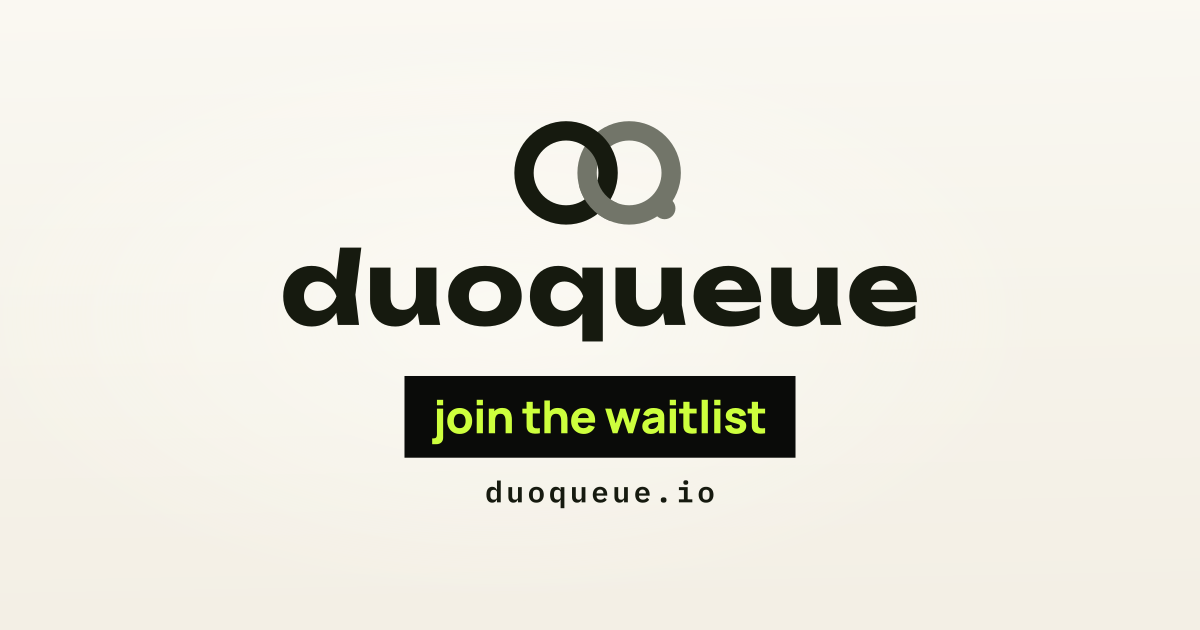
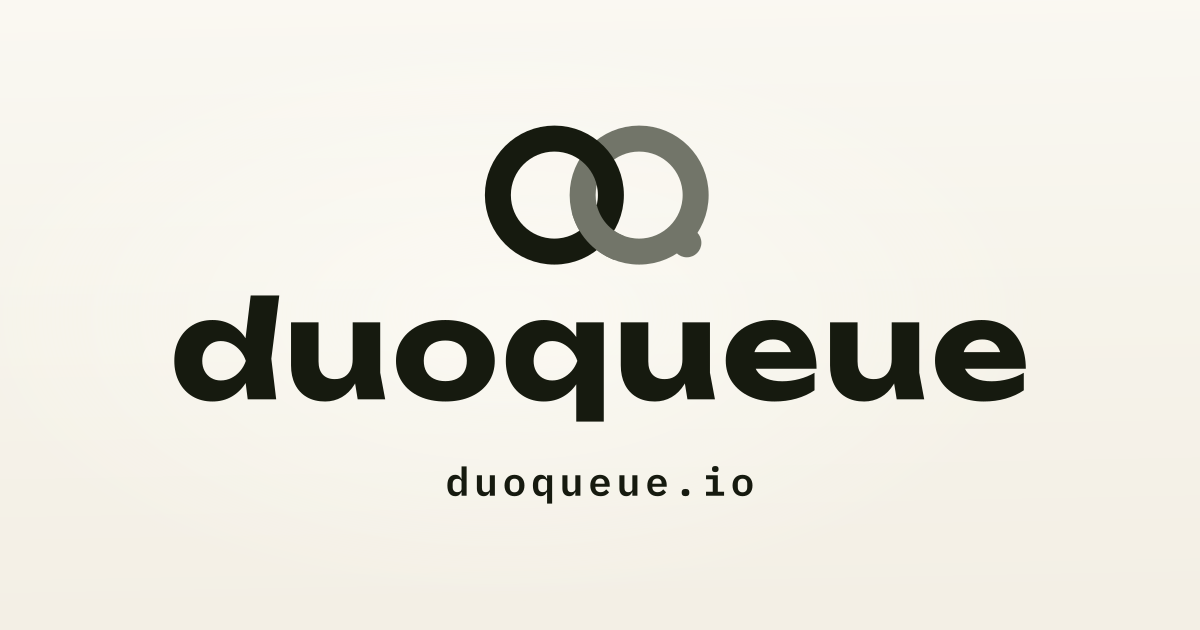
Site: the link preview card drops "join the waitlist" now DuoQueue is out
Every page's og:image pointed at og.png, whose slab still read "join the
waitlist", so any duoqueue.io link shared on Discord, iMessage or a bio
would have advertised a list that no longer exists.

make-og.mjs now follows PHASE: the launched card is the mark, the
wordmark and duoqueue.io, no slab, set larger (wordmark 860 wide) so the
stack keeps the waitlist card's margins. New words for the slab would
need fontTools from pip, so the slab goes rather than guessing.

The card has a new name, og-launch.png (OG_CARD in build-site.mjs),
because Discord's proxy and Facebook's scraper cache a preview image by
its URL. og.png is rewritten with the same launch card, since the deploy
never deletes from gh-pages and previews cached before the rename still
ask for it. The waitlist path renders byte-identical to the old og.png.

The name is also the guard: build-site.mjs warns and deploy-site.mjs
refuses (checked) when the current PHASE's card is missing, and the
deploy's live checks now prove both cards are served with the built
byte count.

Changed region(s): [[0.1233, 0.181, 0.8633, 0.8143]]

diff --git a/site/ig/index.html b/site/ig/index.html
@@ -14,7 +14,7 @@
 <meta property="og:site_name" content="DuoQueue">
 <meta property="og:title" content="DuoQueue: find your duo">
 <meta property="og:description" content="DuoQueue is an 18+ app for finding people to play games with. Platonic, not dating. Free to download on iPhone, starting with League of Legends players in North America.">
-<meta property="og:image" content="https://duoqueue.io/og.png">
+<meta property="og:image" content="https://duoqueue.io/og-launch.png">
 <meta property="og:image:width" content="1200">
 <meta property="og:image:height" content="630">
 <meta property="og:url" content="https://duoqueue.io/">

diff --git a/site/index.html b/site/index.html
@@ -14,7 +14,7 @@
 <meta property="og:site_name" content="DuoQueue">
 <meta property="og:title" content="DuoQueue: find your duo">
 <meta property="og:description" content="DuoQueue is an 18+ app for finding people to play games with. Platonic, not dating. Free to download on iPhone, starting with League of Legends players in North America.">
-<meta property="og:image" content="https://duoqueue.io/og.png">
+<meta property="og:image" content="https://duoqueue.io/og-launch.png">
 <meta property="og:image:width" content="1200">
 <meta property="og:image:height" content="630">
 <meta property="og:url" content="https://duoqueue.io/">

diff --git a/site/tt/index.html b/site/tt/index.html
@@ -14,7 +14,7 @@
 <meta property="og:site_name" content="DuoQueue">
 <meta property="og:title" content="DuoQueue: find your duo">
 <meta property="og:description" content="DuoQueue is an 18+ app for finding people to play games with. Platonic, not dating. Free to download on iPhone, starting with League of Legends players in North America.">
-<meta property="og:image" content="https://duoqueue.io/og.png">
+<meta property="og:image" content="https://duoqueue.io/og-launch.png">
 <meta property="og:image:width" content="1200">
 <meta property="og:image:height" content="630">
 <meta property="og:url" content="https://duoqueue.io/">

diff --git a/site/waitlist/index.html b/site/waitlist/index.html
@@ -14,7 +14,7 @@
 <meta property="og:site_name" content="DuoQueue">
 <meta property="og:title" content="DuoQueue: find your duo">
 <meta property="og:description" content="DuoQueue is an 18+ app for finding people to play games with. Platonic, not dating. Free to download on iPhone, starting with League of Legends players in North America.">
-<meta property="og:image" content="https://duoqueue.io/og.png">
+<meta property="og:image" content="https://duoqueue.io/og-launch.png">
 <meta property="og:image:width" content="1200">
 <meta property="og:image:height" content="630">
 <meta property="og:url" content="https://duoqueue.io/">

diff --git a/site/yt/index.html b/site/yt/index.html
@@ -14,7 +14,7 @@
 <meta property="og:site_name" content="DuoQueue">
 <meta property="og:title" content="DuoQueue: find your duo">
 <meta property="og:description" content="DuoQueue is an 18+ app for finding people to play games with. Platonic, not dating. Free to download on iPhone, starting with League of Legends players in North America.">
-<meta property="og:image" content="https://duoqueue.io/og.png">
+<meta property="og:image" content="https://duoqueue.io/og-launch.png">
 <meta property="og:image:width" content="1200">
 <meta property="og:image:height" content="630">
 <meta property="og:url" content="https://duoqueue.io/">

diff --git a/site/ig/watch/index.html b/site/ig/watch/index.html
@@ -14,7 +14,7 @@
 <meta property="og:site_name" content="DuoQueue">
 <meta property="og:title" content="Watch the trailer | DuoQueue">
 <meta property="og:description" content="The DuoQueue trailer: an 18+ app for finding people to play games with. Platonic, not dating. Free to download on iPhone.">
-<meta property="og:image" content="https://duoqueue.io/og.png">
+<meta property="og:image" content="https://duoqueue.io/og-launch.png">
 <meta property="og:image:width" content="1200">
 <meta property="og:image:height" content="630">
 <meta property="og:url" content="https://duoqueue.io/watch/">

diff --git a/site/tt/watch/index.html b/site/tt/watch/index.html
@@ -14,7 +14,7 @@
 <meta property="og:site_name" content="DuoQueue">
 <meta property="og:title" content="Watch the trailer | DuoQueue">
 <meta property="og:description" content="The DuoQueue trailer: an 18+ app for finding people to play games with. Platonic, not dating. Free to download on iPhone.">
-<meta property="og:image" content="https://duoqueue.io/og.png">
+<meta property="og:image" content="https://duoqueue.io/og-launch.png">
 <meta property="og:image:width" content="1200">
 <meta property="og:image:height" content="630">
 <meta property="og:url" content="https://duoqueue.io/watch/">

diff --git a/site/watch/index.html b/site/watch/index.html
@@ -14,7 +14,7 @@
 <meta property="og:site_name" content="DuoQueue">
 <meta property="og:title" content="Watch the trailer | DuoQueue">
 <meta property="og:description" content="The DuoQueue trailer: an 18+ app for finding people to play games with. Platonic, not dating. Free to download on iPhone.">
-<meta property="og:image" content="https://duoqueue.io/og.png">
+<meta property="og:image" content="https://duoqueue.io/og-launch.png">
 <meta property="og:image:width" content="1200">
 <meta property="og:image:height" content="630">
 <meta property="og:url" content="https://duoqueue.io/watch/">

diff --git a/site/yt/watch/index.html b/site/yt/watch/index.html
@@ -14,7 +14,7 @@
 <meta property="og:site_name" content="DuoQueue">
 <meta property="og:title" content="Watch the trailer | DuoQueue">
 <meta property="og:description" content="The DuoQueue trailer: an 18+ app for finding people to play games with. Platonic, not dating. Free to download on iPhone.">
-<meta property="og:image" content="https://duoqueue.io/og.png">
+<meta property="og:image" content="https://duoqueue.io/og-launch.png">
 <meta property="og:image:width" content="1200">
 <meta property="og:image:height" content="630">
 <meta property="og:url" content="https://duoqueue.io/watch/">

diff --git a/site/privacy/index.html b/site/privacy/index.html
@@ -14,7 +14,7 @@
 <meta property="og:site_name" content="DuoQueue">
 <meta property="og:title" content="DuoQueue Privacy Policy | DuoQueue">
 <meta property="og:description" content="DuoQueue's Privacy Policy: what we collect, why, and who we share it with.">
-<meta property="og:image" content="https://duoqueue.io/og.png">
+<meta property="og:image" content="https://duoqueue.io/og-launch.png">
 <meta property="og:image:width" content="1200">
 <meta property="og:image:height" content="630">
 <meta property="og:url" content="https://duoqueue.io/privacy/">

diff --git a/site/waitlist/thanks/index.html b/site/waitlist/thanks/index.html
@@ -14,7 +14,7 @@
 <meta property="og:site_name" content="DuoQueue">
 <meta property="og:title" content="DuoQueue is out now">
 <meta property="og:description" content="DuoQueue is out now, free to download on iPhone, so there is no waitlist to join any more. Download it on the App Store.">
-<meta property="og:image" content="https://duoqueue.io/og.png">
+<meta property="og:image" content="https://duoqueue.io/og-launch.png">
 <meta property="og:image:width" content="1200">
 <meta property="og:image:height" content="630">
 

diff --git a/site/waitlist/try-again/index.html b/site/waitlist/try-again/index.html
@@ -14,7 +14,7 @@
 <meta property="og:site_name" content="DuoQueue">
 <meta property="og:title" content="DuoQueue is out now">
 <meta property="og:description" content="DuoQueue is out now, free to download on iPhone, so there is no waitlist to join any more. Download it on the App Store.">
-<meta property="og:image" content="https://duoqueue.io/og.png">
+<meta property="og:image" content="https://duoqueue.io/og-launch.png">
 <meta property="og:image:width" content="1200">
 <meta property="og:image:height" content="630">
 
